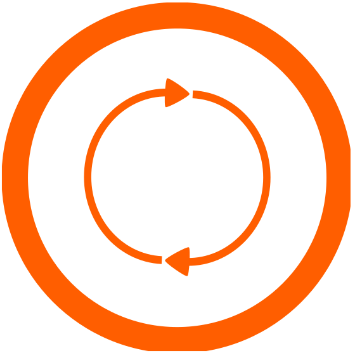
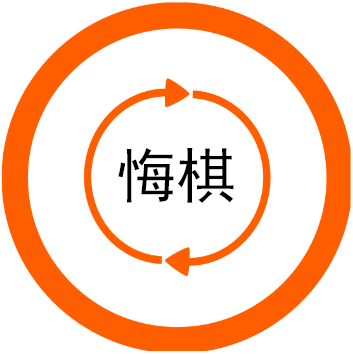
完善按键提示

Changed region(s): [[0.3116, 0.404, 0.6544, 0.5904]]

diff --git a/GomokuMenu.cpp b/GomokuMenu.cpp
@@ -3,14 +3,13 @@
 #include "GomokuMenu.h"
 #include "MenuManager.h"
 #include "RoundRectangleButton.h"
-#include "DisplayButton.h"
 #include <cstdio>
 #include <thread>
 
 GomokuMenu::GomokuMenu()
             : board(nullptr), timerArea(RECT {}),
               sidebarBaseX(0), sidebarCenterX(0),
-              buttonRetract(nullptr), buttonForbidden(nullptr),
+              buttonRetract(nullptr), buttonForbidden(nullptr), buttonDisplayKey(nullptr),
               imageBackground(IMAGE(MainMenu::WIDTH, MainMenu::HEIGHT)) {
     loadimage(&imageBackground, "../resources/gomoku_background.jpg", MainMenu::WIDTH, MainMenu::HEIGHT);
 }
@@ -72,7 +71,7 @@ void GomokuMenu::initButtons() {
     // 悔棋
     IMAGE *imageRetract = new IMAGE(squareRectLength, squareRectLength);
     loadimage(imageRetract, "../resources/retract.png", squareRectLength, squareRectLength);
-    buttonRetract = new CircleSelectionButton("retract", sidebarBaseX + 10, MainMenu::HEIGHT / 4, radius, squareRect, imageRetract);
+    buttonRetract = new CircleSelectionButton("retract", sidebarBaseX + 10, MainMenu::HEIGHT / 2, radius, squareRect, imageRetract);
     addButton(
             buttonRetract,
             [](Menu &menu, Button &button, int x, int y) {
@@ -105,7 +104,8 @@ void GomokuMenu::initButtons() {
     );
     
     // 按键提示
-    addButton(new DisplayKeyButton(sidebarBaseX + 10, MainMenu::HEIGHT / 2));
+    buttonDisplayKey = new DisplayKeyButton(sidebarBaseX + 10, timerArea.bottom + 100);
+    addButton(buttonDisplayKey);
 }
 
 void GomokuMenu::onEnable() {
@@ -243,6 +243,16 @@ void GomokuMenu::startGame() {
     GomokuOptions &options = MenuManager::gomokuPreparation.getOptions();
     board->init(options);
     
+    // 初始化按键提示
+    User *user = dynamic_cast<User *>(board->getRoundPlayer());
+    if (user) {
+        buttonDisplayKey->setKeySettings(&user->getKeySettings());
+    }
+    
+    // 刷新界面
+    BeginBatchDraw();
+    redraw();
+    FlushBatchDraw();
 }
 
 void GomokuMenu::runGame(int x, int y) {
@@ -272,6 +282,10 @@ void GomokuMenu::runGame(int x, int y) {
     
     // 回合更替
     board->turnRound();
+    User *user = dynamic_cast<User *>(board->getRoundPlayer());
+    if (user) {
+        buttonDisplayKey->setKeySettings(&user->getKeySettings());
+    } else buttonDisplayKey->setKeySettings(nullptr);
 }
 
 void GomokuMenu::endGame() {

diff --git a/DisplayButton.cpp b/DisplayButton.cpp
@@ -13,14 +13,39 @@ bool DisplayButton::isInside(int x, int y) {
 DisplayKeyButton::DisplayKeyButton(int x, int y) : DisplayButton(x, y), keySettings(nullptr) {}
 
 void DisplayKeyButton::draw() {
-    setcolor(WHITE);
+    setcolor(BLACK);
     
     int length = 50;
     int offset = 10;
     
-    rectangle(getX() - offset, getY() - offset, getX() + length - offset, getY() + length - offset);
-    rectangle(getX() + length, getY(), getX() + length * 2, getY() + length);
-    rectangle(getX(), getY() + length, getX() + length, getY() + length * 2);
-    rectangle(getX() + length, getY() + length, getX() + length * 2, getY() + length * 2);
-    rectangle(getX() + length * 2, getY() + length, getX() + length * 3, getY() + length * 2);
+    RECT rectQ = {getX() - offset, getY() - offset, getX() + length - offset, getY() + length - offset};
+    RECT rectW = {getX() + length, getY(), getX() + length * 2, getY() + length};
+    RECT rectA = {getX(), getY() + length, getX() + length, getY() + length * 2};
+    RECT rectS = {getX() + length, getY() + length, getX() + length * 2, getY() + length * 2};
+    RECT rectD = {getX() + length * 2, getY() + length, getX() + length * 3, getY() + length * 2};
+    
+    rectangle(rectQ.left, rectQ.top, rectQ.right, rectQ.bottom);
+    rectangle(rectW.left, rectW.top, rectW.right, rectW.bottom);
+    rectangle(rectA.left, rectA.top, rectA.right, rectA.bottom);
+    rectangle(rectS.left, rectS.top, rectS.right, rectS.bottom);
+    rectangle(rectD.left, rectD.top, rectD.right, rectD.bottom);
+
+    if (keySettings) {
+        settextstyle(30, 20, _T("Consolas"));
+        setbkmode(TRANSPARENT);
+        settextcolor(BLACK);
+        drawtext(keySettings->keys[4].c_str(), &rectQ, DT_CENTER | DT_VCENTER | DT_SINGLELINE);
+        
+        if (keySettings->up == VK_UP) {
+            settextstyle(25, 10, _T("Consolas"));
+        }
+        drawtext(keySettings->keys[3].c_str(), &rectD, DT_CENTER | DT_VCENTER | DT_SINGLELINE);
+        drawtext(keySettings->keys[2].c_str(), &rectA, DT_CENTER | DT_VCENTER | DT_SINGLELINE);
+        drawtext(keySettings->keys[1].c_str(), &rectS, DT_CENTER | DT_VCENTER | DT_SINGLELINE);
+        drawtext(keySettings->keys[0].c_str(), &rectW, DT_CENTER | DT_VCENTER | DT_SINGLELINE);
+    }
+}
+
+void DisplayKeyButton::setKeySettings(const KeySettings *settings) {
+    keySettings = settings;
 }

diff --git a/Player.cpp b/Player.cpp
@@ -1,5 +1,7 @@
 #include "Player.h"
 
+#include <utility>
+
 Player::Player(ChessPiece *piece, int selectionBoxHalfWidth, int selectionBoxHalfHeight)
             : piece(piece),
               selectionBoxHalfWidth(selectionBoxHalfWidth),
@@ -31,12 +33,12 @@ int Player::getSelectionBoxHalfHeight() const {
     return selectionBoxHalfHeight;
 }
 
-KeySettings KeySettings::none = {0x07, 0x07, 0x07, 0x07, 0x07, {' ', ' ', ' ', ' ', ' '}};
-KeySettings KeySettings::wsadq = {0x57, 0x53, 0x41, 0x44, 0x51, {'W', 'S', 'A', 'D', 'Q'}};
-KeySettings KeySettings::udlrm = {VK_UP, VK_DOWN, VK_LEFT, VK_RIGHT, 0x4D, {L'↑', L'↓', L'←', L'→', 'M'}};
-KeySettings KeySettings::yhgjt = {0x59, 0x48, 0x47, 0x4A, 0x54, {'Y', 'H', 'G', 'J', 'T'}};
-KeySettings KeySettings::pslqo = {0x50, VK_OEM_1, 0x4C, VK_OEM_7, 0x4F, {'P', ';', 'L', '\'', 'O'}};
-KeySettings KeySettings::n85467 = {VK_NUMPAD8, VK_NUMPAD5, VK_NUMPAD4, VK_NUMPAD6, VK_NUMPAD7, {'8', '5', '4', '6', '7'}};
+KeySettings KeySettings::none = {0x07, 0x07, 0x07, 0x07, 0x07, {"", "", "", "", ""}};
+KeySettings KeySettings::wsadq = {0x57, 0x53, 0x41, 0x44, 0x51, {"W", "S", "A", "D", "Q"}};
+KeySettings KeySettings::udlrm = {VK_UP, VK_DOWN, VK_LEFT, VK_RIGHT, 0x4D, {"UP", "DOWN", "LEFT", "RIGHT", "M"}};
+KeySettings KeySettings::yhgjt = {0x59, 0x48, 0x47, 0x4A, 0x54, {"Y", "H", "G", "J", "T"}};
+KeySettings KeySettings::pslqo = {0x50, VK_OEM_1, 0x4C, VK_OEM_7, 0x4F, {"P", ";", "L", "\'", "O"}};
+KeySettings KeySettings::n85467 = {VK_NUMPAD8, VK_NUMPAD5, VK_NUMPAD4, VK_NUMPAD6, VK_NUMPAD7, {"8", "5", "4", "6", "7"}};
 
 KeySettings *KeySettings::defaultSettings[7] = {
         &KeySettings::none, &KeySettings::wsadq, &KeySettings::udlrm,
@@ -46,7 +48,7 @@ KeySettings *KeySettings::defaultSettings[7] = {
 
 User::User(ChessPiece *piece, int selectionBoxHalfWidth, int selectionBoxHalfHeight, KeySettings keySettings)
             : Player(piece, selectionBoxHalfWidth, selectionBoxHalfHeight),
-              keySettings(keySettings) {}
+              keySettings(std::move(keySettings)) {}
 
 const KeySettings &User::getKeySettings() const {
     return keySettings;

diff --git a/Player.h b/Player.h
@@ -4,6 +4,7 @@
 #include "ChessPiece.h"
 #include "Position.h"
 #include <graphics.h>
+#include <string>
 
 
 // 玩家 (表示参与对局的一方)
@@ -41,7 +42,7 @@ struct KeySettings {
     BYTE right;         // 右
     BYTE drop;          // 落子
     
-    wchar_t keys[5];
+    std::string keys[5];
 
     
     static KeySettings none;            // 无

diff --git a/GomokuMenu.h b/GomokuMenu.h
@@ -6,6 +6,7 @@
 #include "Game.h"
 #include "CircleSelectionButton.h"
 #include "RoundRectangleButton.h"
+#include "DisplayButton.h"
 #include <mutex>
 
 
@@ -18,6 +19,7 @@ private:
     
     CircleSelectionButton *buttonRetract;
     RoundRectangleButton *buttonForbidden;
+    DisplayKeyButton *buttonDisplayKey;
 
     IMAGE imageBackground;
     

diff --git a/DisplayButton.h b/DisplayButton.h
@@ -17,12 +17,14 @@ private:
 
 class DisplayKeyButton : public DisplayButton {
 private:
-    KeySettings *keySettings;
+    const KeySettings *keySettings;
     
 public:
     DisplayKeyButton(int x, int y);
 
     void draw() override;
+    
+    void setKeySettings(const KeySettings *settings);
 
 };
 
